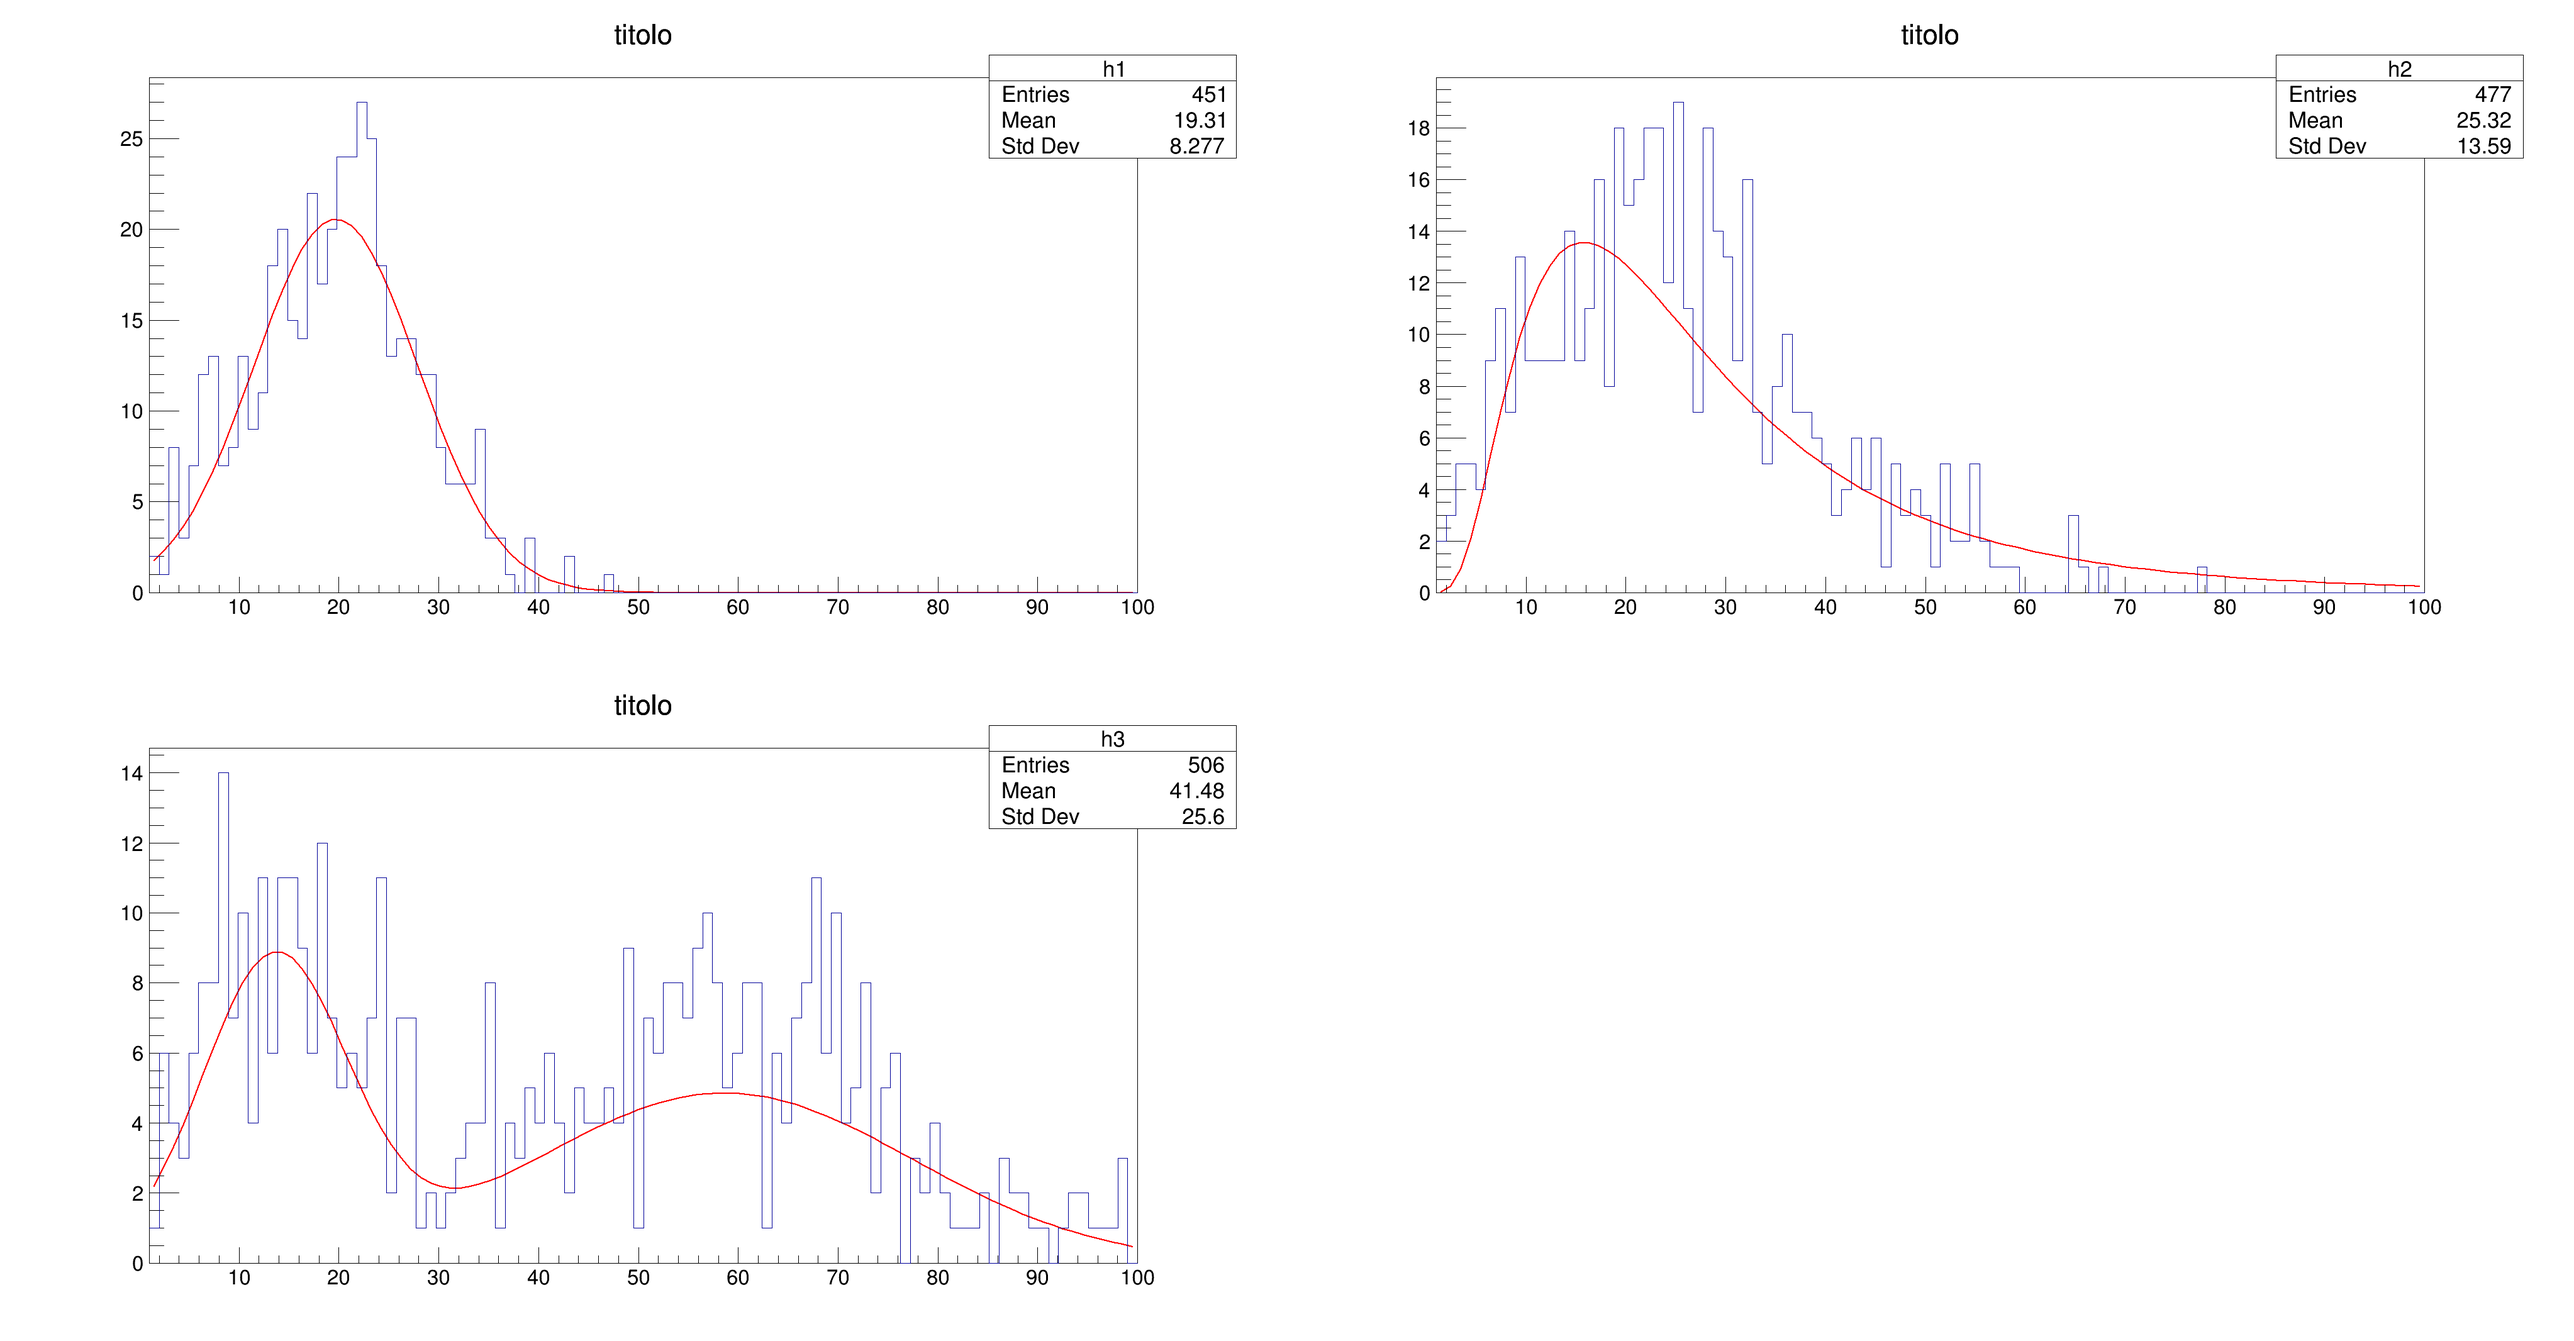
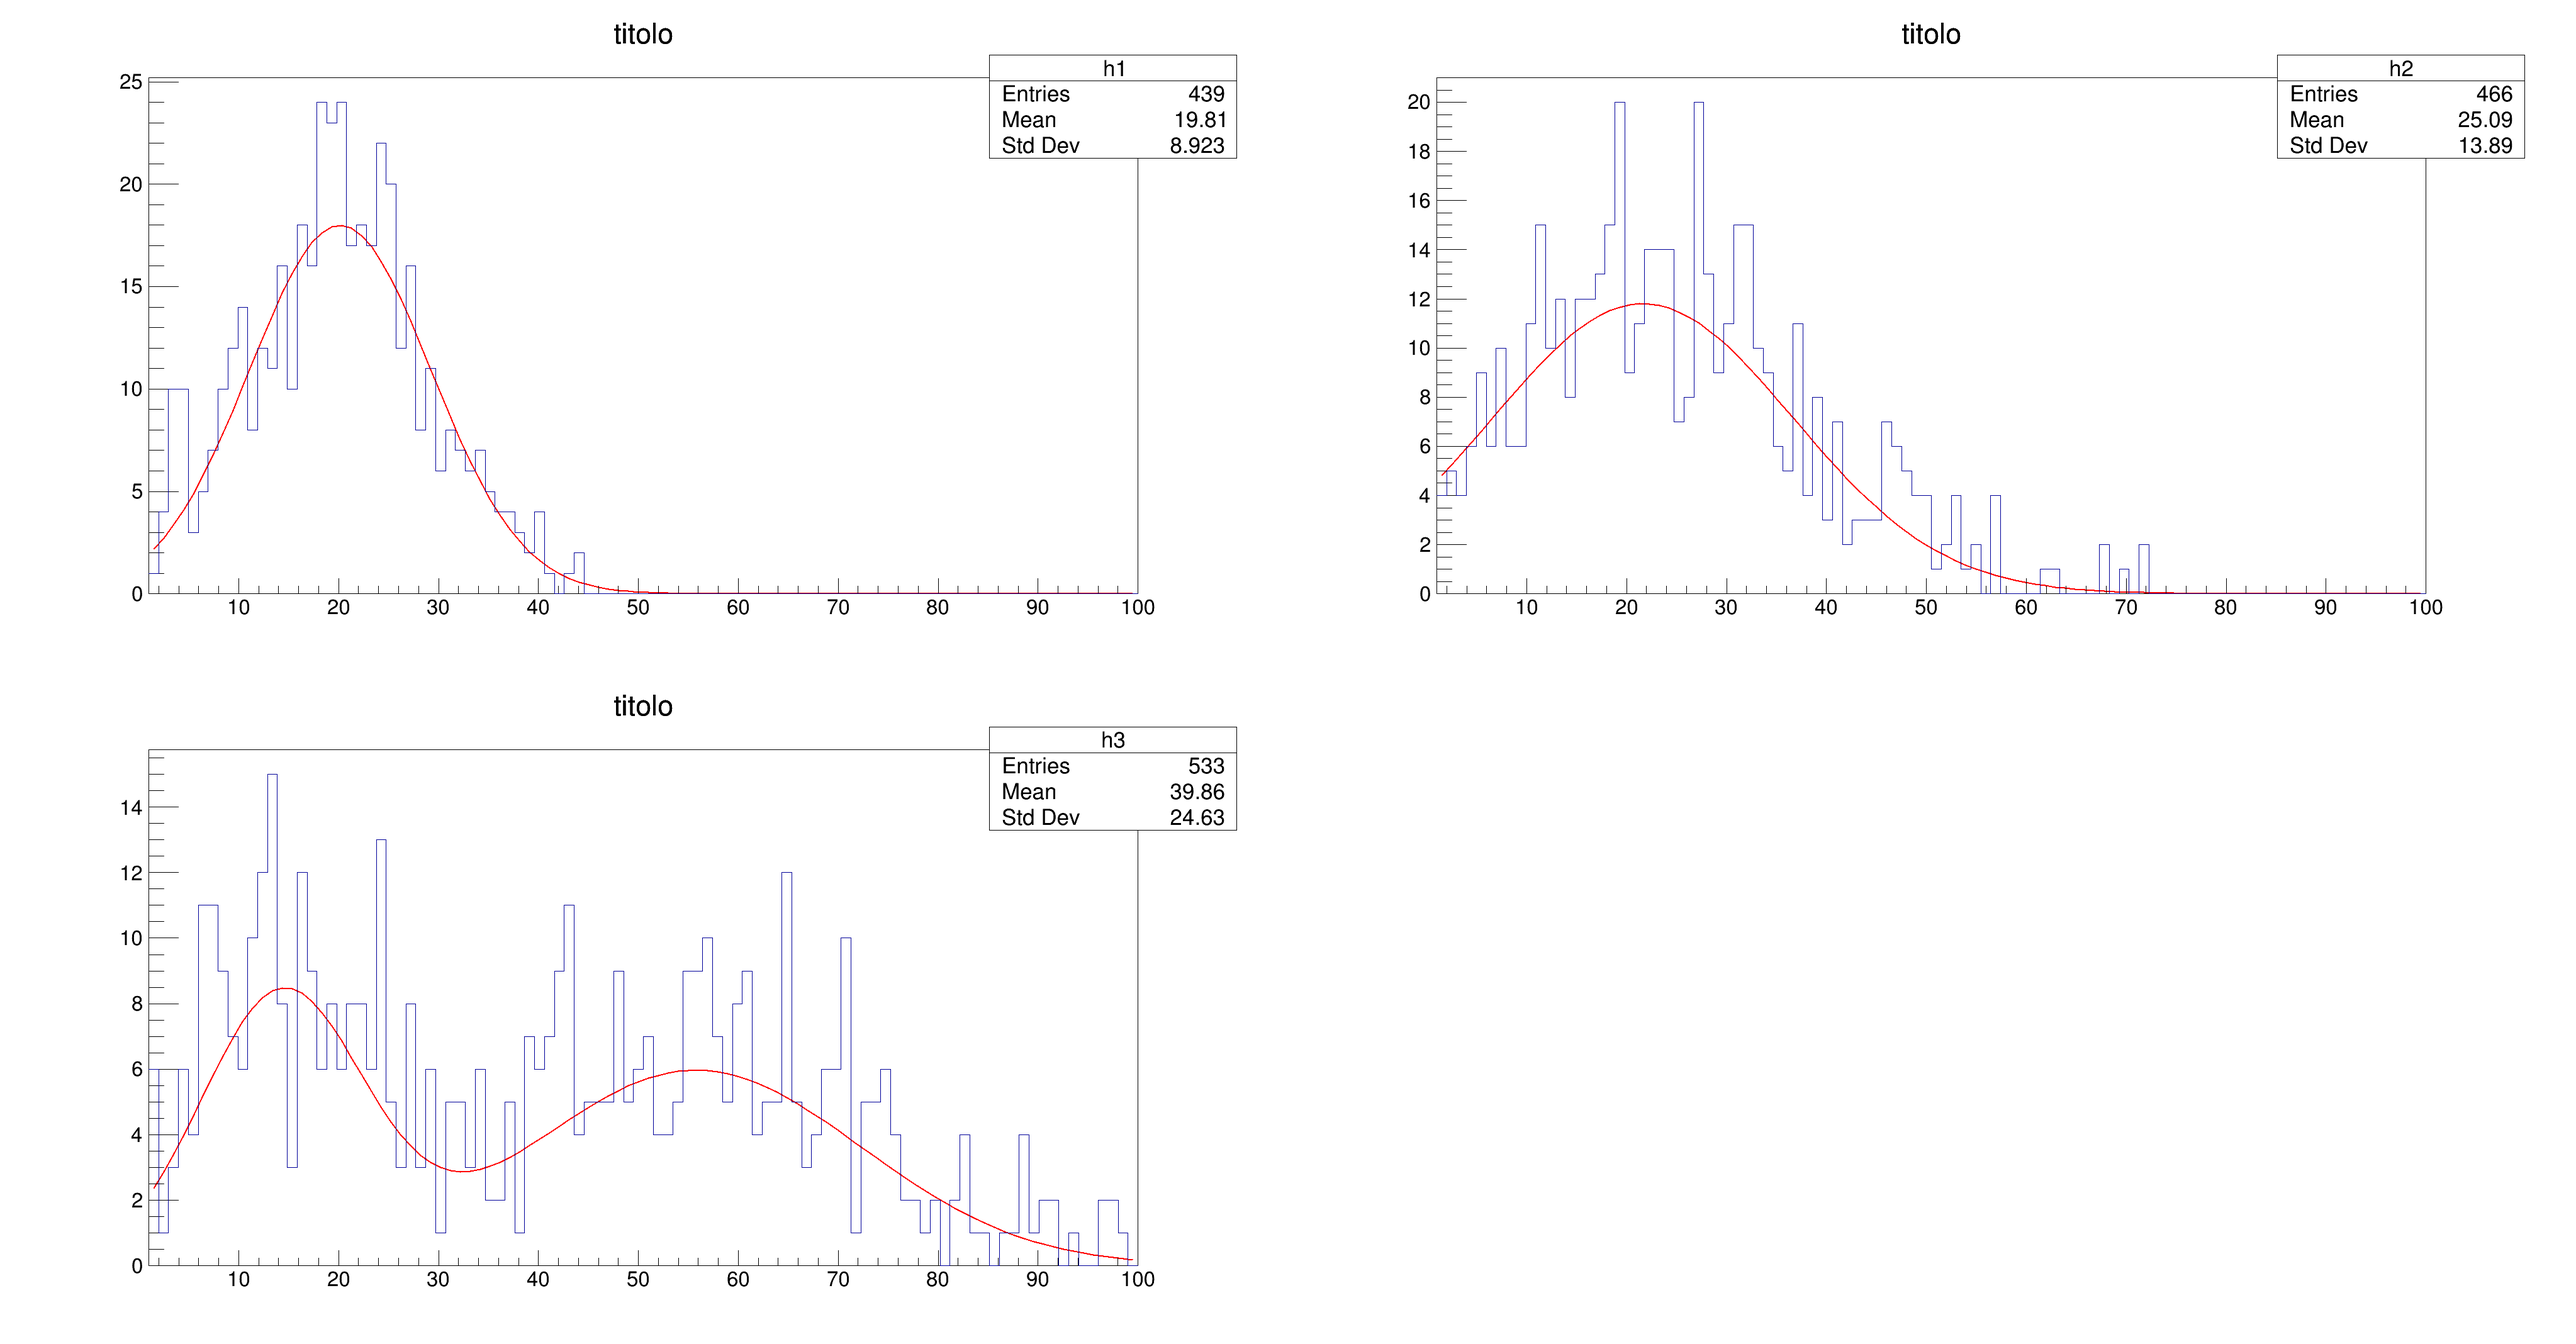
new cose

diff --git a/source/Graph.cpp b/source/Graph.cpp
@@ -505,8 +505,8 @@ void Graph::fprintVisual(std::string const &out_folder) const noexcept {
 }
 
 void Graph::fprintHistogram(std::string const &out_folder,
-                            std::string const &opt,
-                            int const nBins) const noexcept {
+                            std::string const &opt, int const nBins,
+                            std::string const &format) const noexcept {
   std::ofstream fOut;
   if (opt == "density") {
     auto out = out_folder + std::to_string(_time) + "den.dat";
@@ -525,29 +525,37 @@ void Graph::fprintHistogram(std::string const &out_folder,
     double binSize = 6e3 / nBins;
     auto out = "./temp_data/" + std::to_string(_time) + "_t.dat";
     fOut.open(out);
-    int j;
-    std::vector<double> N;
-    for (int i = 0; i < nBins + 1; ++i) {
-      j = std::count_if(
-          _vehicles.begin(), _vehicles.end(),
-          [i, binSize](std::shared_ptr<Vehicle> const &vehicle) {
-            if (vehicle->getPosition() == vehicle->getDestination()) {
-              return vehicle->getTimeTraveled() >= i * binSize &&
-                     vehicle->getTimeTraveled() < (i + 1) * binSize;
-            } else
-              return false;
-          });
-      N.push_back(static_cast<double>(j));
-      // fOut << std::setprecision(3) << i * binSize / 60 << '\t' << n << '\n';
-    }
-    normalizeVec(N);
-    j = 0;
-    for (auto const &n : N) {
-      fOut << std::setprecision(3) << j * binSize / 60 << '\t' << n << '\n';
-      ++j;
+    if (format == "latex") {
+      int j;
+      std::vector<double> N;
+      for (int i = 0; i < nBins + 1; ++i) {
+        j = std::count_if(
+            _vehicles.begin(), _vehicles.end(),
+            [i, binSize](std::shared_ptr<Vehicle> const &vehicle) {
+              if (vehicle->getPosition() == vehicle->getDestination()) {
+                return vehicle->getTimeTraveled() >= i * binSize &&
+                       vehicle->getTimeTraveled() < (i + 1) * binSize;
+              } else
+                return false;
+            });
+        N.push_back(static_cast<double>(j));
+        // fOut << std::setprecision(3) << i * binSize / 60 << '\t' << n <<
+        // '\n';
+      }
+      normalizeVec(N);
+      j = 0;
+      for (auto const &n : N) {
+        fOut << std::setprecision(3) << j * binSize / 60 << '\t' << n << '\n';
+        ++j;
+      }
+    } else if (format == "root") {
+      for (auto const &vehicle : _vehicles) {
+        if (vehicle->getPosition() == vehicle->getDestination()) {
+          fOut << vehicle->getTimeTraveled() / 60 << '\n';
+        }
+      }
     }
   }
-
   fOut.close();
 }
 
@@ -679,29 +687,11 @@ void Graph::test() {
   // to root file
   std::ofstream fOut;
   auto out = "./temp_data/" + std::to_string(_time) + "_root.dat";
-  // int nBins = 100;
-  // double binSize = 6e3 / nBins;
   fOut.open(out);
-  std::vector<double> N;
   for (auto const &vehicle : _vehicles) {
     if (vehicle->getPosition() == vehicle->getDestination()) {
       fOut << vehicle->getTimeTraveled() / 60 << '\n';
     }
   }
-  // for (int i = 0; i < nBins + 1; ++i) {
-  //   j = std::count_if(_vehicles.begin(), _vehicles.end(),
-  //                     [i, binSize](std::shared_ptr<Vehicle> const &vehicle) {
-  //                       if (vehicle->getPosition() ==
-  //                           vehicle->getDestination()) {
-  //                         return vehicle->getTimeTraveled() >= i * binSize &&
-  //                                vehicle->getTimeTraveled() < (i + 1) *
-  //                                binSize;
-  //                       } else
-  //                         return false;
-  //                     });
-  //   N.push_back(static_cast<double>(j));
-  //   // fOut << std::setprecision(3) << i * binSize / 60 << '\t' << n << '\n';
-  // }
-  // normalizeVec(N);
   fOut.close();
 }

diff --git a/macro.cpp b/macro.cpp
@@ -8,17 +8,17 @@ void macro() {
     auto h3 = new TH1F("h3", "titolo", 100, 1, 100);
     std::ifstream fIn;
     double data;
-    fIn.open("./temp_data/3000_root.dat");
+    fIn.open("./temp_data/3000_t.dat");
     while(fIn >> data) {
         h1->Fill(data);
     }
     fIn.close();
-    fIn.open("./temp_data/4800_root.dat");
+    fIn.open("./temp_data/5200_t.dat");
     while(fIn >> data) {
         h2->Fill(data);
     }
     fIn.close();
-    fIn.open("./temp_data/11900_root.dat");
+    fIn.open("./temp_data/11900_t.dat");
     while(fIn >> data) {
         h3->Fill(data);
     }
@@ -29,9 +29,10 @@ void macro() {
     h1->Draw("HIST,SAME");
     canv->cd(2);
     // auto f2 = new TF1("f2","[0]*TMath::Exp([1]*x)", 30, 100);
-    auto f2 = new TF1("f2","[0]*TMath::Gaus(TMath::Log(x), [1], [2])/x", 0, 100);
-    f2->SetParameters(4.5, 30, 100);
-    h2->Fit(f2, "R");
+    // auto f2 = new TF1("f2","[0]*TMath::Gaus(TMath::Log(x), [1], [2])/x", 0, 100);
+    // f2->SetParameters(4.5, 30, 100);
+    // h2->Fit(f2, "R");
+    h2->Fit("gaus");
     h2->Draw("HIST,SAME");
     canv->cd(3);
     // auto g1= new TF1("g1","gaus", 0, 100);

diff --git a/latex/risultati.tex b/latex/risultati.tex
@@ -441,24 +441,24 @@ Ulteriori studi potrebbero essere svolti per vericare come queste revisioni impa
 
 % \section{Test}
 
-\begin{figure}[H]
-    \centering
-    \begin{tikzpicture}[scale=0.5]
-    \begin{axis}[ybar interval,
-    area style,
-    width = 2\textwidth,
-    height = 1.5\textwidth,
-    xlabel = {Tempo di percorrenza (s)},
-    ylabel = {Numero di veicoli},]
-    \addplot+[
-    ybar interval,
-    mark=no,
-    line width = 1.25pt
-    ] plot file {./temp_data/3000_t.dat};
-    \end{axis}
-    \end{tikzpicture}
-    \caption{\emph{Prova.}}
-\end{figure}
+% \begin{figure}[H]
+%     \centering
+%     \begin{tikzpicture}[scale=0.5]
+%     \begin{axis}[ybar interval,
+%     area style,
+%     width = 2\textwidth,
+%     height = 1.5\textwidth,
+%     xlabel = {Tempo di percorrenza (s)},
+%     ylabel = {Numero di veicoli},]
+%     \addplot+[
+%     ybar interval,
+%     mark=no,
+%     line width = 1.25pt
+%     ] plot file {./temp_data/3000_t.dat};
+%     \end{axis}
+%     \end{tikzpicture}
+%     \caption{\emph{Prova.}}
+% \end{figure}
 
 % \begin{figure}[H]
 %     \centering

diff --git a/source/Graph.hpp b/source/Graph.hpp
@@ -21,7 +21,7 @@ private:
 
   int _minDistance(
       int const,
-      int const) const; // algoritmo per la distanza minima tra due nodi
+      int const) const; // algorithm for min distance between two nodes
   std::vector<int>
   _nextStep(int const,
             int const); // next step for the destination (min. distance)
@@ -57,8 +57,8 @@ public:
   void fprint(bool const) const noexcept; // print network info on file
   void
   fprintVisual(std::string const &) const noexcept; // print file for visual.py
-  void fprintHistogram(std::string const &, std::string const &,
-                       int const) const noexcept; // print histograms
+  void fprintHistogram(std::string const &, std::string const &, int const,
+                       std::string const &) const noexcept; // print histograms
   void fprintDistribution(
       std::string const &,
       std::string const &) const; // print graphs whit format y \t x

diff --git a/source/main.cpp b/source/main.cpp
@@ -113,8 +113,7 @@ int main(int argc, char **argv) {
         g.fprintTimeDistribution(DATA_FOLDER, "k", 0.);
         g.fprintTimeDistribution(DATA_FOLDER, "q", 0.);
         g.fprintTimeDistribution(DATA_FOLDER, "u", 0.);
-        g.fprintHistogram(DATA_FOLDER, "traveltime", 20);
-        g.test();
+        g.fprintHistogram(DATA_FOLDER, "traveltime", 20, "root");
       }
       // constant analysis
       if (t < 12e3 && t % 60 == 0 && t != 0) {
@@ -182,7 +181,7 @@ int main(int argc, char **argv) {
         g.fprintTimeDistribution(DATA_FOLDER, "u", 4.);
       }
       if (t % 100 == 0 && t != 0) {
-        g.fprintHistogram(DATA_FOLDER, "traveltime", 100);
+        g.fprintHistogram(DATA_FOLDER, "traveltime", 100, "root");
       }
       g.evolve(false);
     }
